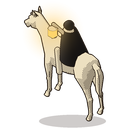
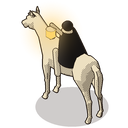
Yol ve harita düzeltmeleri: dağ zirvesi kesiği, atlının gölgesi, koltuktaki sürücü
- Dağ biyomunun uzak katmanı 512'lik karenin üstünü aşıyordu; yol ekranı
  gökyüzü şeridini kırpınca zirvelerde düz bir kesik göründü. road_scene.py
  biyom başına kare boyu alıyor; dağın uzak katmanı 768 karede render
  edildi, zemin noktası alttan aynı pikselde (anchor_px 61.4).
- Haritadaki atlının gölgesi en öndeki toynağa ortalanıyordu; eğik bakışta
  arka ayaklar havada kalıyordu. Gölge ve bağlantı noktası artık dört
  toynağın kutusunun ortasında; sekiz yön yeniden üretildi.
- Yolda vagon koltuğunda eski düz silüet yerine gerçek sürücü figürü
  oturuyor (climb_down klibinin ilk karesi). Kamp testi yeni kurala göre.
- screenshot_journey_screen.gd isteğe bağlı çıkış/varış alıyor.

Changed region(s): [[0.1562, 0.0312, 0.875, 1.0], [0.5938, 0.4375, 0.625, 0.4688]]

diff --git a/tools/worldmap/cm/rider_marker.py b/tools/worldmap/cm/rider_marker.py
@@ -209,13 +209,17 @@ def render(V, F, K, heading_deg):
     # tırnak (yer) noktası: atın en alt noktalarının ortası
     lw = LANTERN @ R.T
     lp = (np.array([lw[0], -(lw @ up)]) - c) / span * RES + RES / 2
+    # Dört toynağın ekrandaki kutusu: eğik bakışta arka toynaklar öndekilerden
+    # yukarıda görünür. Gölge ve bağlantı noktası bu kutunun ortasında; ilk
+    # sürüm en alttaki (en yakın) toynağı aldı, arka ayaklar havada kaldı.
     feet = P[np.asarray(W[:, 1] < W[:, 1].min() + 0.08)]
-    anchor = (float(feet[:, 0].mean()), float(feet[:, 1].max()))
-    return zb, nrm, kid, fid, (anchor, (float(lp[0]), float(lp[1])), float(lw @ toward))
+    box = (float(feet[:, 0].min()), float(feet[:, 1].min()), float(feet[:, 0].max()), float(feet[:, 1].max()))
+    anchor = ((box[0] + box[2]) / 2.0, (box[1] + box[3]) / 2.0)
+    return zb, nrm, kid, fid, (anchor, (float(lp[0]), float(lp[1])), float(lw @ toward), box)
 
 
 def ink(zb, nrm, kid, fid, info):
-    anchor, lpos, ldepth = info
+    anchor, lpos, ldepth = info[:3]
     mask = kid >= 0
     light = np.array([-0.75, 0.75, -0.25])
     light /= np.linalg.norm(light)
@@ -264,7 +268,10 @@ def ink(zb, nrm, kid, fid, info):
     alpha[outg] = 0.85 * glow[outg]
     # yer gölgesi: tırnakların altında yassı elips
     ax, ay = anchor
-    ell = (((xx - ax) / (RES * 0.26)) ** 2 + ((yy - ay) / (RES * 0.05)) ** 2) < 1
+    box = info[3]
+    rx = max(RES * 0.06, (box[2] - box[0]) / 2.0 + RES * 0.05)
+    ry = max(RES * 0.025, (box[3] - box[1]) / 2.0 + RES * 0.02)
+    ell = (((xx - ax) / rx) ** 2 + ((yy - ay) / ry) ** 2) < 1
     sh = ell & ~(mask | outline)
     img[sh] = img[sh] * 0 + INK
     alpha[sh] = 0.22

diff --git a/tools/ui_scenes/road_scene.py b/tools/ui_scenes/road_scene.py
@@ -75,6 +75,10 @@ BIOMES = {
     },
     "mountain": {
         "far": {"amp": 70.0, "base": 18.0, "freqs": [2, 3, 5, 9], "tint": [0.52, 0.53, 0.56], "snow": 0.7},
+        # Zirveler 512'lik karenin üstünü aşıyordu; yol ekranı gökyüzü
+        # şeridini kırpıp sahneyi yukarı alınca kesik görünür oldu. Kare
+        # uzuyor, zemin noktası alttan aynı pikselde kalıyor (anchor_px 61.4).
+        "frames": {"far": {"h": 768, "anchor_v": 61.44 / 768.0}},
         "ground_tex": "Ground106", "ground_tint": [0.62, 0.60, 0.56], "rock_tint": [0.55, 0.55, 0.57],
         "grass": [0.38, 0.40, 0.32],
         "trees": [("conifer", 0.8), ("dead", 0.2)], "tree_count": 14, "tree_h": (8.0, 13.0),
@@ -648,7 +652,7 @@ def main(argv):
     layout_path = os.path.join(out, "layout.json")
     layout = json.load(open(layout_path)) if os.path.exists(layout_path) else {}
     for name in layers:
-        spec = LAYERS[name]
+        spec = dict(LAYERS[name], **BIOMES[biome].get("frames", {}).get(name, {}))
         T.reset()
         rng = random.Random(zlib.crc32(("%s|%s" % (biome, name)).encode()))
         BUILDERS[name](BIOMES[biome], spec, rng)

diff --git a/CLAUDE.md b/CLAUDE.md
@@ -787,6 +787,12 @@ the walking figures are the game's strongest asset) but to deepen it.
   - A clip not yet rendered for a garment someone wears falls back to the
     seated pose in the first half and standing in the second
     (`WalkFigure._draw_transition`) - never naked, never floating.
+  - **On the road the bench holds the real figure too.** The driver used to
+    be `ArtDraw.wagon()`'s flat silhouette (a disc and a quad) outside camp,
+    and the player read it as the old mannequin. `RoadCaravan._seat_driver`
+    keeps each driver figure visible on its bench in the first frame of
+    `climb_down` (hip on the seat, facing the wagon), so the silhouette is
+    never drawn while the caravan has its drivers.
 
 - **Camp walking has a ceiling, and the camp clock starts when everyone is at the fire (task 12.2c).** Gathering used to
   last 30-60 real seconds (the farthest figure's brisk speed bound everyone; party members were dealt to fires in turn
